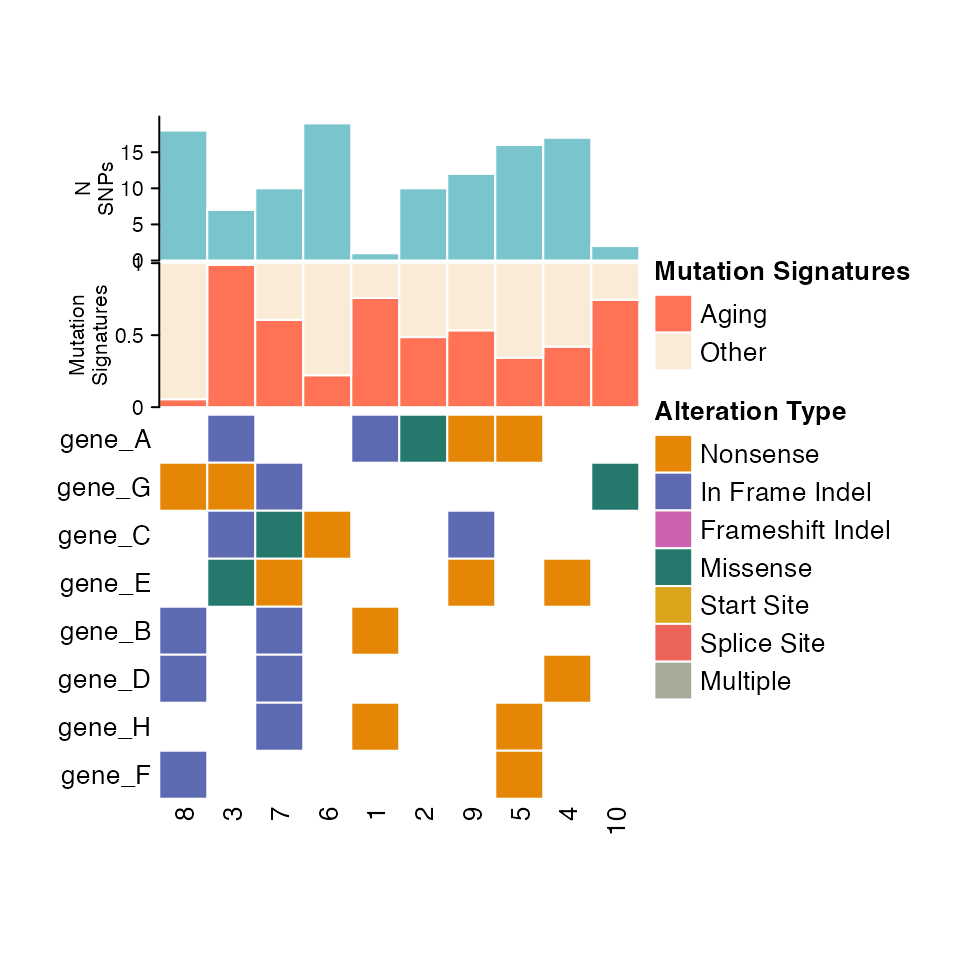
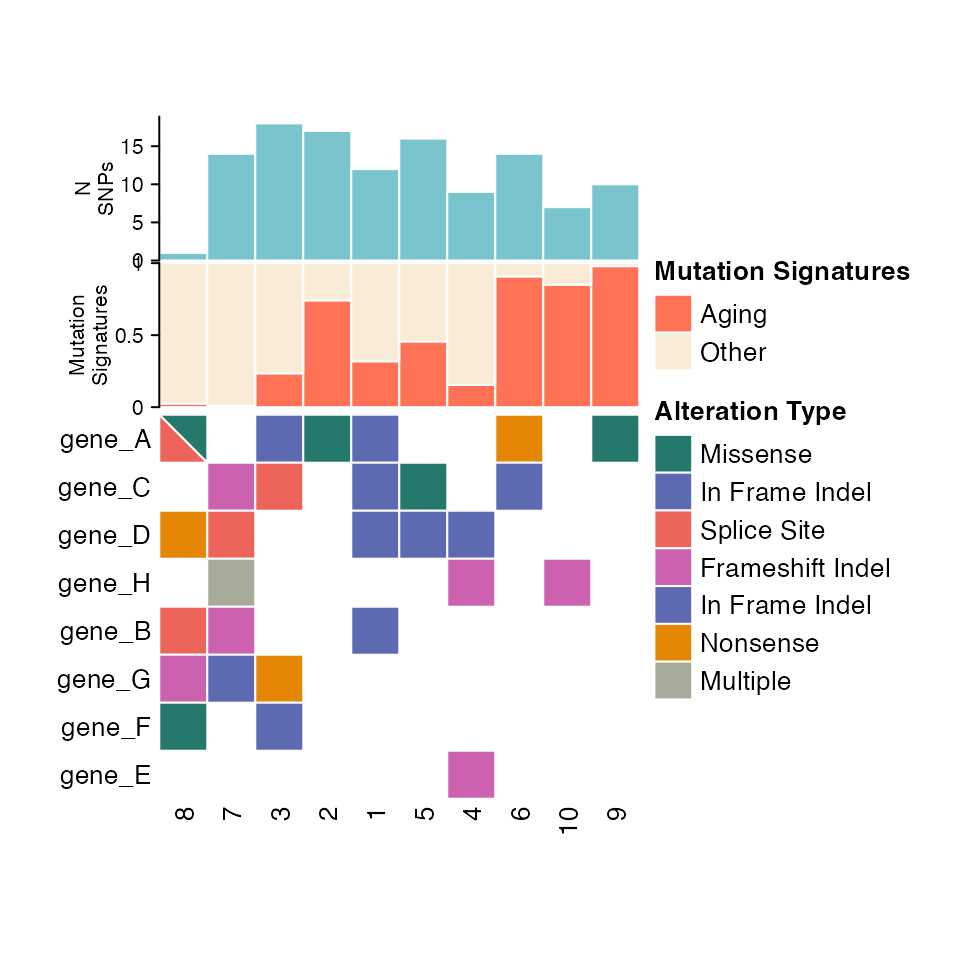
Update site

diff --git a/docs/articles/ComutR.html b/docs/articles/ComutR.html
@@ -68,7 +68,7 @@
     
     
 <div class="sourceCode" id="cb1"><pre class="downlit sourceCode r">
-<code class="sourceCode R"><span><span class="kw"><a href="https://rdrr.io/r/base/library.html" class="external-link">library</a></span><span class="op">(</span><span class="va">ComutR</span><span class="op">)</span></span>
+<code class="sourceCode R"><span><span class="kw"><a href="https://rdrr.io/r/base/library.html" class="external-link">library</a></span><span class="op">(</span><span class="va"><a href="https://taprati.github.io/ComutR/">ComutR</a></span><span class="op">)</span></span>
 <span><span class="fu"><a href="https://rdrr.io/r/base/Random.html" class="external-link">set.seed</a></span><span class="op">(</span><span class="fl">1999</span><span class="op">)</span></span></code></pre></div>
 <div class="section level2">
 <h2 id="preparing-data-for-comut-plots">Preparing data for comut plots<a class="anchor" aria-label="anchor" href="#preparing-data-for-comut-plots"></a>
@@ -91,7 +91,7 @@ format</a></p>
 <span><span class="va">gene_names</span> <span class="op">&lt;-</span> <span class="fu"><a href="https://rdrr.io/r/base/c.html" class="external-link">c</a></span><span class="op">(</span><span class="st">"A"</span>, <span class="st">"B"</span>, <span class="st">"C"</span>, <span class="st">"D"</span>, <span class="st">"E"</span>, <span class="st">"F"</span>, <span class="st">"G"</span>, <span class="st">"H"</span><span class="op">)</span></span>
 <span><span class="va">gene_names</span> <span class="op">&lt;-</span> <span class="fu"><a href="https://rdrr.io/r/base/paste.html" class="external-link">paste0</a></span><span class="op">(</span><span class="st">"gene_"</span>, <span class="va">gene_names</span><span class="op">)</span></span>
 <span></span>
-<span><span class="va">variant_types</span> <span class="op">=</span> <span class="fu"><a href="https://rdrr.io/r/base/c.html" class="external-link">c</a></span><span class="op">(</span><span class="st">"Missense_Mutation"</span>, <span class="st">"Nonsense_Mutation"</span>, <span class="st">"In_Frame_Del"</span>, <span class="st">"In_Frame_Del"</span>, <span class="st">"Missense_Mutation"</span>, <span class="st">"Nonsense_Mutation"</span>, <span class="st">"Nonsense_Mutation"</span><span class="op">)</span></span>
+<span><span class="va">variant_types</span> <span class="op">&lt;-</span> <span class="fu"><a href="https://rdrr.io/r/base/c.html" class="external-link">c</a></span><span class="op">(</span><span class="st">"Frame_Shift_Del"</span>, <span class="st">"Frame_Shift_Ins"</span>, <span class="st">"In_Frame_Del"</span>, <span class="st">"In_Frame_Ins"</span>, <span class="st">"Missense_Mutation"</span>, <span class="st">"Nonsense_Mutation"</span>, <span class="st">"Splice_Site"</span>, <span class="st">"Translation_Start_Site"</span><span class="op">)</span></span>
 <span></span>
 <span><span class="va">maf</span> <span class="op">&lt;-</span> <span class="fu"><a href="https://rdrr.io/r/base/expand.grid.html" class="external-link">expand.grid</a></span><span class="op">(</span></span>
 <span>  <span class="st">"Tumor_Sample_Barcode"</span> <span class="op">=</span> <span class="va">sample_ids</span>,</span>
@@ -99,18 +99,25 @@ format</a></p>
 <span>  <span class="op">)</span></span>
 <span><span class="va">maf</span><span class="op">$</span><span class="va">Variant_Classification</span> <span class="op">&lt;-</span> <span class="fu"><a href="https://rdrr.io/r/base/sample.html" class="external-link">sample</a></span><span class="op">(</span><span class="va">variant_types</span>,</span>
 <span>                                     size <span class="op">=</span> <span class="fu"><a href="https://rdrr.io/r/base/nrow.html" class="external-link">nrow</a></span><span class="op">(</span><span class="va">maf</span><span class="op">)</span>, replace <span class="op">=</span> <span class="cn">TRUE</span><span class="op">)</span></span>
-<span><span class="co"># "Variant_Classification" = variant_types</span></span>
+<span></span>
+<span><span class="co"># Randomly subset</span></span>
 <span><span class="va">input_maf</span> <span class="op">&lt;-</span> <span class="va">maf</span> <span class="op"><a href="../reference/pipe.html">%&gt;%</a></span></span>
 <span>  <span class="fu">dplyr</span><span class="fu">::</span><span class="fu"><a href="https://dplyr.tidyverse.org/reference/sample_n.html" class="external-link">sample_frac</a></span><span class="op">(</span><span class="fl">0.35</span><span class="op">)</span></span>
 <span></span>
+<span><span class="co"># Duplicate first row twice for showing multiple</span></span>
+<span><span class="va">input_maf</span> <span class="op">&lt;-</span> <span class="fu"><a href="https://rdrr.io/r/base/cbind.html" class="external-link">rbind</a></span><span class="op">(</span><span class="va">input_maf</span><span class="op">[</span><span class="fu"><a href="https://rdrr.io/r/base/rep.html" class="external-link">rep</a></span><span class="op">(</span><span class="fl">1</span>, <span class="fl">2</span><span class="op">)</span>,<span class="op">]</span>, <span class="va">input_maf</span><span class="op">)</span></span>
+<span><span class="co"># Duplicate last row once for showing double annotations</span></span>
+<span><span class="va">input_maf</span> <span class="op">&lt;-</span> <span class="fu"><a href="https://rdrr.io/r/base/cbind.html" class="external-link">rbind</a></span><span class="op">(</span><span class="va">input_maf</span><span class="op">[</span><span class="fl">4</span>,<span class="op">]</span>, <span class="va">input_maf</span><span class="op">)</span></span>
+<span><span class="va">input_maf</span><span class="op">[</span><span class="fl">1</span>, <span class="fl">3</span><span class="op">]</span> <span class="op">&lt;-</span> <span class="st">"Missense_Mutation"</span></span>
+<span></span>
 <span><span class="va">input_maf</span> <span class="op"><a href="../reference/pipe.html">%&gt;%</a></span> <span class="fu"><a href="https://rdrr.io/r/utils/head.html" class="external-link">head</a></span><span class="op">(</span><span class="op">)</span></span></code></pre></div>
-<pre><code><span><span class="co">##   Tumor_Sample_Barcode Hugo_Symbol Variant_Classification</span></span>
-<span><span class="co">## 1                    8      gene_B           In_Frame_Del</span></span>
-<span><span class="co">## 2                    8      gene_D           In_Frame_Del</span></span>
-<span><span class="co">## 3                    3      gene_G      Nonsense_Mutation</span></span>
-<span><span class="co">## 4                    7      gene_D           In_Frame_Del</span></span>
-<span><span class="co">## 5                    6      gene_C      Nonsense_Mutation</span></span>
-<span><span class="co">## 6                    3      gene_C           In_Frame_Del</span></span></code></pre>
+<pre><code><span><span class="co">##     Tumor_Sample_Barcode Hugo_Symbol Variant_Classification</span></span>
+<span><span class="co">## 2                      8      gene_A      Missense_Mutation</span></span>
+<span><span class="co">## 1                      7      gene_H           In_Frame_Ins</span></span>
+<span><span class="co">## 1.1                    7      gene_H           In_Frame_Ins</span></span>
+<span><span class="co">## 110                    7      gene_H           In_Frame_Ins</span></span>
+<span><span class="co">## 29                     8      gene_A            Splice_Site</span></span>
+<span><span class="co">## 3                      3      gene_A           In_Frame_Ins</span></span></code></pre>
 </div>
 </div>
 <div class="section level2">
@@ -121,8 +128,8 @@ format</a></p>
 <p><img src="ComutR_files/figure-html/basic%20comut-1.png" width="480"></p>
 <p>By default, comutR provides a colorscheme for the variant
 classification, but this can be altered using the
-<code>variant_colors</code> and <code>variant_scheme</code>
-arguments.</p>
+<code>variant_colors</code> and <code>variant_scheme</code> arguments.
+<code>comut</code> also orders the rows by frequency of alterations.</p>
 </div>
 <div class="section level2">
 <h2 id="adding-metadata">Adding metadata<a class="anchor" aria-label="anchor" href="#adding-metadata"></a>
@@ -235,16 +242,19 @@ each mutation:</p>
 <p><img src="ComutR_files/figure-html/unnamed-chunk-5-1.png" width="480"></p>
 </div>
 <div class="section level2">
-<h2 id="limiting-samples-or-features">Limiting samples or features<a class="anchor" aria-label="anchor" href="#limiting-samples-or-features"></a>
+<h2 id="limiting-samples-or-features-and-filling-missing-information">Limiting samples or features and filling missing information<a class="anchor" aria-label="anchor" href="#limiting-samples-or-features-and-filling-missing-information"></a>
 </h2>
 <p>If a subset of samples or features in the input data are desired, the
 user can specify the <code>ids</code> or
-<code>features_of_interest</code> arguments respectively.</p>
+<code>features_of_interest</code> arguments respectively.
+<code>comut</code> will also fill in any ids or features that are not
+present in the input data. This can be especially useful when one wants
+to highlight a feature that is not altered in any samples.</p>
 <div class="sourceCode" id="cb13"><pre class="downlit sourceCode r">
 <code class="sourceCode R"><span><span class="fu"><a href="../reference/comut.html">comut</a></span><span class="op">(</span></span>
 <span>  data <span class="op">=</span> <span class="va">input_maf</span>,</span>
-<span>  ids <span class="op">=</span> <span class="fu"><a href="https://rdrr.io/r/base/c.html" class="external-link">c</a></span><span class="op">(</span><span class="st">"1"</span>, <span class="st">"3"</span>, <span class="st">"4"</span>, <span class="st">"7"</span><span class="op">)</span>,</span>
-<span>  features_of_interest <span class="op">=</span> <span class="fu"><a href="https://rdrr.io/r/base/c.html" class="external-link">c</a></span><span class="op">(</span><span class="st">"gene_A"</span>, <span class="st">"gene_B"</span>, <span class="st">"gene_E"</span>, <span class="st">"gene_H"</span><span class="op">)</span></span>
+<span>  ids <span class="op">=</span> <span class="fu"><a href="https://rdrr.io/r/base/c.html" class="external-link">c</a></span><span class="op">(</span><span class="st">"1"</span>, <span class="st">"3"</span>, <span class="st">"4"</span>, <span class="st">"7"</span>, <span class="st">"missing_sample"</span><span class="op">)</span>,</span>
+<span>  features_of_interest <span class="op">=</span> <span class="fu"><a href="https://rdrr.io/r/base/c.html" class="external-link">c</a></span><span class="op">(</span><span class="st">"gene_A"</span>, <span class="st">"gene_B"</span>, <span class="st">"gene_E"</span>, <span class="st">"gene_H"</span>, <span class="st">"gene_missing"</span><span class="op">)</span></span>
 <span>  <span class="op">)</span></span></code></pre></div>
 <p><img src="ComutR_files/figure-html/unnamed-chunk-6-1.png" width="480"></p>
 </div>
@@ -252,6 +262,9 @@ user can specify the <code>ids</code> or
 <h2 id="comut-also-provide-many-arguments-for-the-plot-size-fontsize-and-other-options-">Comut also provide many arguments for the plot size, fontsize, and
 other options.<a class="anchor" aria-label="anchor" href="#comut-also-provide-many-arguments-for-the-plot-size-fontsize-and-other-options-"></a>
 </h2>
+<p><code>comut</code> also takes additional variable arguments for the
+call to <code>Heatmap</code>, so users can specify existing options like
+<code>row_names_rot</code>, etc.</p>
 <div class="sourceCode" id="cb14"><pre class="downlit sourceCode r">
 <code class="sourceCode R"><span><span class="fu"><a href="../reference/comut.html">comut</a></span><span class="op">(</span></span>
 <span>  data <span class="op">=</span> <span class="va">input_maf</span>,</span>
@@ -263,7 +276,10 @@ other options.<a class="anchor" aria-label="anchor" href="#comut-also-provide-ma
 <span>  cell_height <span class="op">=</span> <span class="fl">0.3</span>,</span>
 <span>  anno_fontsize <span class="op">=</span> <span class="fl">12</span>,</span>
 <span>  legend_fontsize <span class="op">=</span> <span class="fl">12</span>,</span>
-<span>  add_borders <span class="op">=</span> <span class="cn">TRUE</span></span>
+<span>  body_border <span class="op">=</span> <span class="cn">TRUE</span>,</span>
+<span>  add_borders <span class="op">=</span> <span class="cn">TRUE</span>,</span>
+<span>  row_names_rot <span class="op">=</span> <span class="fl">45</span>,</span>
+<span>  column_names_rot <span class="op">=</span> <span class="fl">0</span></span>
 <span><span class="op">)</span></span></code></pre></div>
 <pre><code><span><span class="co">## Warning: Following annotation names are duplicated: value</span></span></code></pre>
 <p><img src="ComutR_files/figure-html/unnamed-chunk-7-1.png" width="960"></p>

diff --git a/docs/404.html b/docs/404.html
@@ -6,23 +6,23 @@
 <meta http-equiv="X-UA-Compatible" content="IE=edge">
 <meta name="viewport" content="width=device-width, initial-scale=1, shrink-to-fit=no">
 <title>Page not found (404) • ComutR</title>
-<script src="deps/jquery-3.6.0/jquery-3.6.0.min.js"></script><meta name="viewport" content="width=device-width, initial-scale=1, shrink-to-fit=no">
-<link href="deps/bootstrap-5.2.2/bootstrap.min.css" rel="stylesheet">
-<script src="deps/bootstrap-5.2.2/bootstrap.bundle.min.js"></script><!-- Font Awesome icons --><link rel="stylesheet" href="https://cdnjs.cloudflare.com/ajax/libs/font-awesome/5.12.1/css/all.min.css" integrity="sha256-mmgLkCYLUQbXn0B1SRqzHar6dCnv9oZFPEC1g1cwlkk=" crossorigin="anonymous">
+<script src="https://taprati.github.io/ComutR/deps/jquery-3.6.0/jquery-3.6.0.min.js"></script><meta name="viewport" content="width=device-width, initial-scale=1, shrink-to-fit=no">
+<link href="https://taprati.github.io/ComutR/deps/bootstrap-5.2.2/bootstrap.min.css" rel="stylesheet">
+<script src="https://taprati.github.io/ComutR/deps/bootstrap-5.2.2/bootstrap.bundle.min.js"></script><!-- Font Awesome icons --><link rel="stylesheet" href="https://cdnjs.cloudflare.com/ajax/libs/font-awesome/5.12.1/css/all.min.css" integrity="sha256-mmgLkCYLUQbXn0B1SRqzHar6dCnv9oZFPEC1g1cwlkk=" crossorigin="anonymous">
 <link rel="stylesheet" href="https://cdnjs.cloudflare.com/ajax/libs/font-awesome/5.12.1/css/v4-shims.min.css" integrity="sha256-wZjR52fzng1pJHwx4aV2AO3yyTOXrcDW7jBpJtTwVxw=" crossorigin="anonymous">
-<!-- bootstrap-toc --><script src="https://cdn.jsdelivr.net/gh/afeld/bootstrap-toc@v1.0.1/dist/bootstrap-toc.min.js" integrity="sha256-4veVQbu7//Lk5TSmc7YV48MxtMy98e26cf5MrgZYnwo=" crossorigin="anonymous"></script><!-- headroom.js --><script src="https://cdnjs.cloudflare.com/ajax/libs/headroom/0.11.0/headroom.min.js" integrity="sha256-AsUX4SJE1+yuDu5+mAVzJbuYNPHj/WroHuZ8Ir/CkE0=" crossorigin="anonymous"></script><script src="https://cdnjs.cloudflare.com/ajax/libs/headroom/0.11.0/jQuery.headroom.min.js" integrity="sha256-ZX/yNShbjqsohH1k95liqY9Gd8uOiE1S4vZc+9KQ1K4=" crossorigin="anonymous"></script><!-- clipboard.js --><script src="https://cdnjs.cloudflare.com/ajax/libs/clipboard.js/2.0.6/clipboard.min.js" integrity="sha256-inc5kl9MA1hkeYUt+EC3BhlIgyp/2jDIyBLS6k3UxPI=" crossorigin="anonymous"></script><!-- search --><script src="https://cdnjs.cloudflare.com/ajax/libs/fuse.js/6.4.6/fuse.js" integrity="sha512-zv6Ywkjyktsohkbp9bb45V6tEMoWhzFzXis+LrMehmJZZSys19Yxf1dopHx7WzIKxr5tK2dVcYmaCk2uqdjF4A==" crossorigin="anonymous"></script><script src="https://cdnjs.cloudflare.com/ajax/libs/autocomplete.js/0.38.0/autocomplete.jquery.min.js" integrity="sha512-GU9ayf+66Xx2TmpxqJpliWbT5PiGYxpaG8rfnBEk1LL8l1KGkRShhngwdXK1UgqhAzWpZHSiYPc09/NwDQIGyg==" crossorigin="anonymous"></script><script src="https://cdnjs.cloudflare.com/ajax/libs/mark.js/8.11.1/mark.min.js" integrity="sha512-5CYOlHXGh6QpOFA/TeTylKLWfB3ftPsde7AnmhuitiTX4K5SqCLBeKro6sPS8ilsz1Q4NRx3v8Ko2IBiszzdww==" crossorigin="anonymous"></script><!-- pkgdown --><script src="pkgdown.js"></script><meta property="og:title" content="Page not found (404)">
+<!-- bootstrap-toc --><script src="https://cdn.jsdelivr.net/gh/afeld/bootstrap-toc@v1.0.1/dist/bootstrap-toc.min.js" integrity="sha256-4veVQbu7//Lk5TSmc7YV48MxtMy98e26cf5MrgZYnwo=" crossorigin="anonymous"></script><!-- headroom.js --><script src="https://cdnjs.cloudflare.com/ajax/libs/headroom/0.11.0/headroom.min.js" integrity="sha256-AsUX4SJE1+yuDu5+mAVzJbuYNPHj/WroHuZ8Ir/CkE0=" crossorigin="anonymous"></script><script src="https://cdnjs.cloudflare.com/ajax/libs/headroom/0.11.0/jQuery.headroom.min.js" integrity="sha256-ZX/yNShbjqsohH1k95liqY9Gd8uOiE1S4vZc+9KQ1K4=" crossorigin="anonymous"></script><!-- clipboard.js --><script src="https://cdnjs.cloudflare.com/ajax/libs/clipboard.js/2.0.6/clipboard.min.js" integrity="sha256-inc5kl9MA1hkeYUt+EC3BhlIgyp/2jDIyBLS6k3UxPI=" crossorigin="anonymous"></script><!-- search --><script src="https://cdnjs.cloudflare.com/ajax/libs/fuse.js/6.4.6/fuse.js" integrity="sha512-zv6Ywkjyktsohkbp9bb45V6tEMoWhzFzXis+LrMehmJZZSys19Yxf1dopHx7WzIKxr5tK2dVcYmaCk2uqdjF4A==" crossorigin="anonymous"></script><script src="https://cdnjs.cloudflare.com/ajax/libs/autocomplete.js/0.38.0/autocomplete.jquery.min.js" integrity="sha512-GU9ayf+66Xx2TmpxqJpliWbT5PiGYxpaG8rfnBEk1LL8l1KGkRShhngwdXK1UgqhAzWpZHSiYPc09/NwDQIGyg==" crossorigin="anonymous"></script><script src="https://cdnjs.cloudflare.com/ajax/libs/mark.js/8.11.1/mark.min.js" integrity="sha512-5CYOlHXGh6QpOFA/TeTylKLWfB3ftPsde7AnmhuitiTX4K5SqCLBeKro6sPS8ilsz1Q4NRx3v8Ko2IBiszzdww==" crossorigin="anonymous"></script><!-- pkgdown --><script src="https://taprati.github.io/ComutR/pkgdown.js"></script><meta property="og:title" content="Page not found (404)">
 <!-- mathjax --><script src="https://cdnjs.cloudflare.com/ajax/libs/mathjax/2.7.5/MathJax.js" integrity="sha256-nvJJv9wWKEm88qvoQl9ekL2J+k/RWIsaSScxxlsrv8k=" crossorigin="anonymous"></script><script src="https://cdnjs.cloudflare.com/ajax/libs/mathjax/2.7.5/config/TeX-AMS-MML_HTMLorMML.js" integrity="sha256-84DKXVJXs0/F8OTMzX4UR909+jtl4G7SPypPavF+GfA=" crossorigin="anonymous"></script><!--[if lt IE 9]>
 <script src="https://oss.maxcdn.com/html5shiv/3.7.3/html5shiv.min.js"></script>
 <script src="https://oss.maxcdn.com/respond/1.4.2/respond.min.js"></script>
 <![endif]-->
 </head>
 <body>
-    <a href="#main" class="visually-hidden-focusable">Skip to contents</a>
+    <a href="https://taprati.github.io/ComutR/#main" class="visually-hidden-focusable">Skip to contents</a>
     
 
     <nav class="navbar fixed-top navbar-light navbar-expand-lg bg-light"><div class="container">
     
-    <a class="navbar-brand me-2" href="index.html">ComutR</a>
+    <a class="navbar-brand me-2" href="https://taprati.github.io/ComutR/index.html">ComutR</a>
 
     <small class="nav-text text-muted me-auto" data-bs-toggle="tooltip" data-bs-placement="bottom" title="">0.1.0</small>
 
@@ -34,10 +34,10 @@
     <div id="navbar" class="collapse navbar-collapse ms-3">
       <ul class="navbar-nav me-auto">
 <li class="nav-item">
-  <a class="nav-link" href="articles/ComutR.html">Get started</a>
+  <a class="nav-link" href="https://taprati.github.io/ComutR/articles/ComutR.html">Get started</a>
 </li>
 <li class="nav-item">
-  <a class="nav-link" href="reference/index.html">Reference</a>
+  <a class="nav-link" href="https://taprati.github.io/ComutR/reference/index.html">Reference</a>
 </li>
       </ul>
 <form class="form-inline my-2 my-lg-0" role="search">
@@ -52,7 +52,7 @@
 </nav><div class="container template-title-body">
 <div class="row">
   <main id="main" class="col-md-9"><div class="page-header">
-      <img src="" class="logo" alt=""><h1>Page not found (404)</h1>
+      <img src="https://taprati.github.io/ComutR/" class="logo" alt=""><h1>Page not found (404)</h1>
       
     </div>
 

diff --git a/docs/index.html b/docs/index.html
@@ -59,6 +59,12 @@
 <!-- badges: start -->
 
 <p>Create comut plots in R! Built on top of ComplexHeatmap <a href="https://bioconductor.org/packages/release/bioc/html/ComplexHeatmap.html" class="external-link">ComplexHeatmap</a> Heavily inspired by the python package comut: <a href="https://pypi.org/project/comut/" class="external-link">comut</a></p>
+<p>Major features include:</p>
+<ul>
+<li>By default in works with <a href="https://docs.gdc.cancer.gov/Data/File_Formats/MAF_Format/" class="external-link">MAF (Mutation Annotation Format)</a> style input data!</li>
+<li>Ability to add text annotations on top of the boxes</li>
+<li>Allows for missing information to be made explicit</li>
+</ul>
 <div class="section level2">
 <h2 id="installation">Installation<a class="anchor" aria-label="anchor" href="#installation"></a>
 </h2>
@@ -72,7 +78,7 @@
 </h2>
 <p>The most basic comut plot takes a maf type data frame and generates a heatmap:</p>
 <div class="sourceCode" id="cb2"><pre class="downlit sourceCode r">
-<code class="sourceCode R"><span><span class="kw"><a href="https://rdrr.io/r/base/library.html" class="external-link">library</a></span><span class="op">(</span><span class="va">ComutR</span><span class="op">)</span></span>
+<code class="sourceCode R"><span><span class="kw"><a href="https://rdrr.io/r/base/library.html" class="external-link">library</a></span><span class="op">(</span><span class="va"><a href="https://taprati.github.io/ComutR/">ComutR</a></span><span class="op">)</span></span>
 <span></span>
 <span><span class="va">input_maf</span> <span class="op">&lt;-</span> <span class="fu"><a href="https://rdrr.io/r/base/data.frame.html" class="external-link">data.frame</a></span><span class="op">(</span></span>
 <span>  Tumor_Sample_Barcode <span class="op">=</span> <span class="fu"><a href="https://rdrr.io/r/base/c.html" class="external-link">c</a></span><span class="op">(</span><span class="st">"1"</span>, <span class="st">"1"</span>, <span class="st">"1"</span>, <span class="st">"2"</span>, <span class="st">"3"</span>, <span class="st">"4"</span>, <span class="st">"4"</span><span class="op">)</span>,</span>
@@ -82,8 +88,6 @@
 <span></span>
 <span><span class="fu"><a href="reference/comut.html">comut</a></span><span class="op">(</span>data <span class="op">=</span> <span class="va">input_maf</span><span class="op">)</span></span></code></pre></div>
 <p><img src="reference/figures/README-example-1.png" width="100%"></p>
-<p>For more complex examples and explanations of all of ComutR’s features, look at the vignette:</p>
-<p><a href="./vignettes/ComutR.html">Using Comut</a></p>
 </div>
 </div>
   </main><aside class="col-md-3"><div class="license">

diff --git a/docs/reference/comut.html b/docs/reference/comut.html
@@ -69,7 +69,8 @@
 <span>  add_borders <span class="op">=</span> <span class="cn">FALSE</span>,</span>
 <span>  show_barcodes <span class="op">=</span> <span class="cn">TRUE</span>,</span>
 <span>  <span class="va">id_order</span>,</span>
-<span>  <span class="va">ids</span></span>
+<span>  <span class="va">ids</span>,</span>
+<span>  <span class="va">...</span></span>
 <span><span class="op">)</span></span></code></pre></div>
     </div>
 
@@ -169,6 +170,10 @@
 
 <dt>ids</dt>
 <dd><p>optional vector of Tumor_Sample_Barcodes to show</p></dd>
+
+
+<dt>...</dt>
+<dd><p>variable arguments to pass to Heatmap call</p></dd>
 
 </dl></div>
     <div class="section level2">

diff --git a/docs/authors.html b/docs/authors.html
@@ -52,13 +52,14 @@
 
       <p>Aprati T (2025).
 <em>ComutR: Comut plot build on ComplexHeatmap</em>.
-R package version 0.1.0. 
+R package version 0.1.0, <a href="https://taprati.github.io/ComutR/">https://taprati.github.io/ComutR/</a>. 
 </p>
       <pre>@Manual{,
   title = {ComutR: Comut plot build on ComplexHeatmap},
   author = {Tyler Aprati},
   year = {2025},
   note = {R package version 0.1.0},
+  url = {https://taprati.github.io/ComutR/},
 }</pre>
     </div>
   </main><aside class="col-md-3"><nav id="toc"><h2>On this page</h2>
